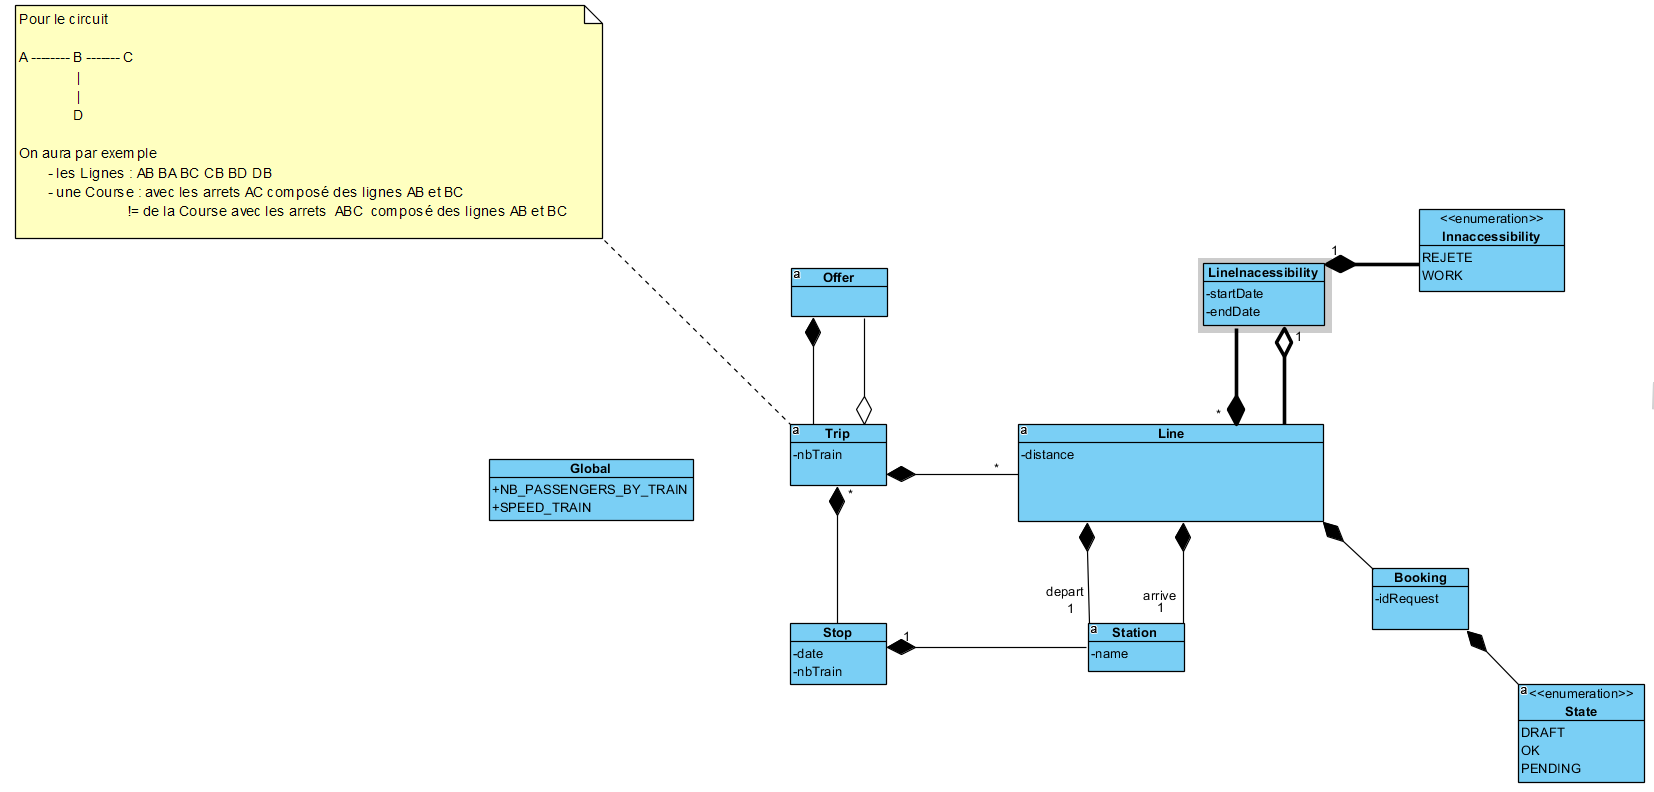
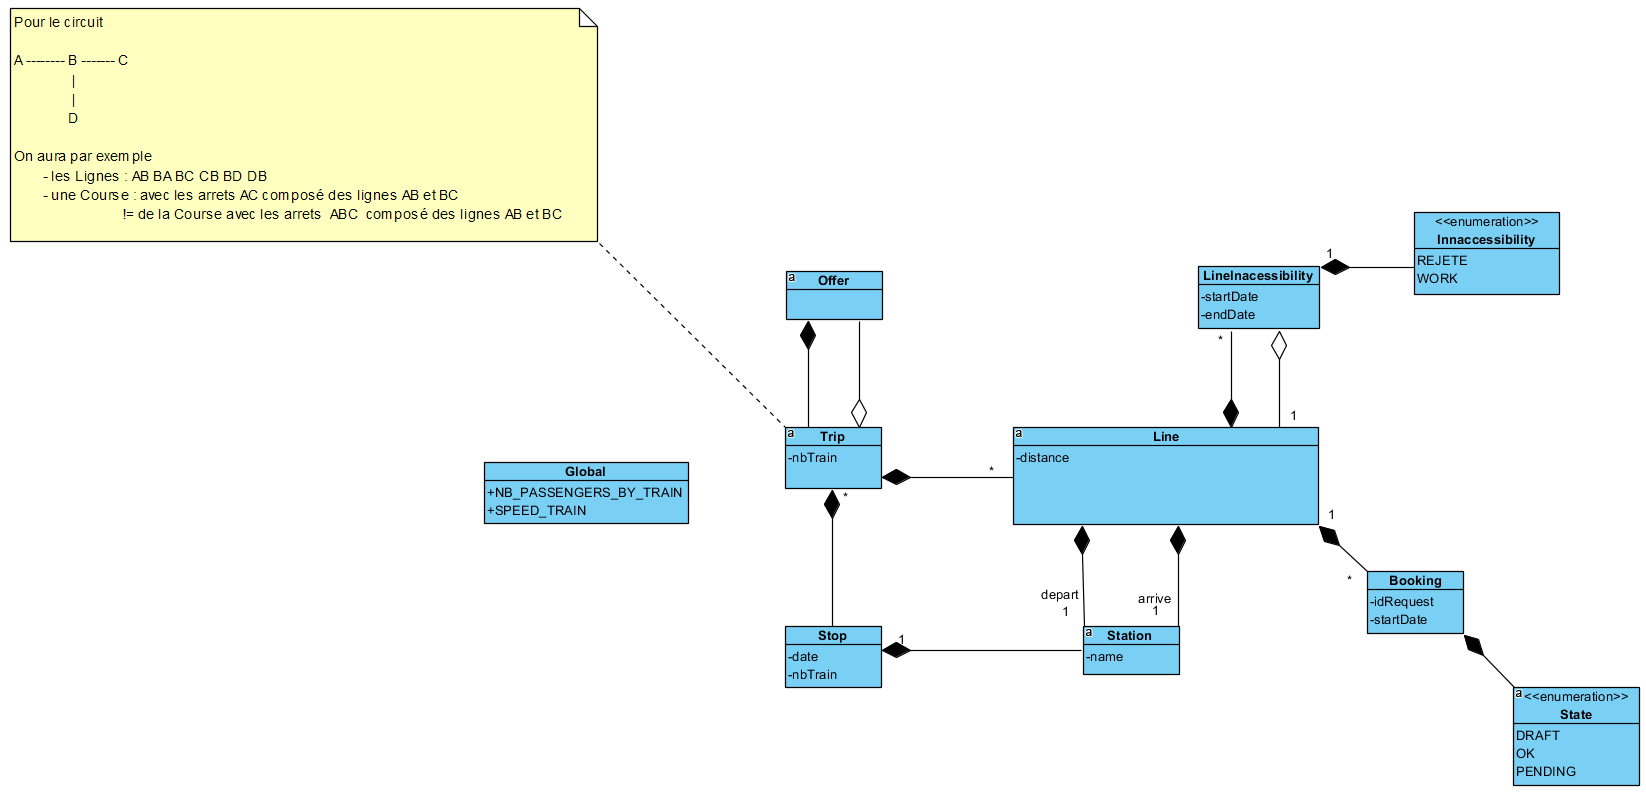
Ajout Booking

diff --git a/src/main/java/com/fil/IMTransport/object/Line.java b/src/main/java/com/fil/IMTransport/object/Line.java
@@ -22,18 +22,32 @@ public class Line {
 	/**
 	 * @param inaccessibilities Map<Timestamp, Inaccessibility> - Date et raison des
 	 *                          inaccessibilités de la ligne
-	 * @param bookings          Map<Timestamp, State> - Date et état des
-	 *                          réservations de la ligne
-	 * @param start             Station - Station de départ de la ligne
-	 * @param end               Station - Station de fin de ligne
-	 * @param distance          int - Longueur (en km) de la ligne
 	 */
 	@OneToMany
 	private ArrayList<LineInaccessibility> inaccessibilities;
+	
+	/**
+	 * @param bookings          Map<Timestamp, State> - Date et état des
+	 *                          réservations de la ligne
+	 */
+	@OneToMany
+	private ArrayList<Booking> bookings;
+	
+	/**
+	 * @param start             Station - Station de départ de la ligne
+	 */
 	@ManyToMany
 	private Station start;
+	
+	/**
+	 * @param end               Station - Station de fin de ligne
+	 */
 	@ManyToMany
 	private Station end;
+	
+	/**
+	 * @param distance          int - Longueur (en km) de la ligne
+	 */
 	private int distance;
 	
 	@Id
@@ -43,6 +57,7 @@ public class Line {
 	public Line() {
 		super();
 		this.inaccessibilities = new ArrayList<LineInaccessibility>();
+		this.bookings = new ArrayList<Booking>();
 	}
 
 	public Line(Station start, Station end, int distance) {
@@ -51,6 +66,7 @@ public class Line {
 		this.end = end;
 		this.distance = distance;
 		this.inaccessibilities = new ArrayList<LineInaccessibility>();
+		this.bookings = new ArrayList<Booking>();
 	}
 
 	public ArrayList<LineInaccessibility> getInaccessibilities() {
@@ -94,5 +110,20 @@ public class Line {
 
 	public int getId() {
 		return id;
+	}
+
+	public ArrayList<Booking> getBookings() {
+		return bookings;
+	}
+
+	public void setBookings(ArrayList<Booking> bookings) {
+		this.bookings = bookings;
+	}
+	
+	public void addBooking(Booking booking) {
+		if(! bookings.contains(booking)) {
+			booking.setLine(this);
+			bookings.add(booking);
+		}
 	}
 }

diff --git a/src/main/java/com/fil/IMTransport/object/Booking.java b/src/main/java/com/fil/IMTransport/object/Booking.java
@@ -1,0 +1,67 @@
+package com.fil.IMTransport.object;
+
+import java.security.Timestamp;
+
+import javax.persistence.Id;
+import javax.persistence.ManyToOne;
+
+public class Booking {
+	private enum State { DRAFT, OK, PENDING; }
+	
+	@Id
+	private int id;
+	
+	@ManyToOne
+	private Line line;
+	
+	private Timestamp startDate;
+	
+	private State state;
+	
+	/**
+	 * @param String idBooking - identifiant de réservation
+	 */
+	private String idBooking;
+
+	public Booking() {
+		super();
+	}
+
+	public Booking(Line line, Timestamp startDate, String idBooking, State state) {
+		super();
+		this.line = line;
+		this.startDate = startDate;
+		this.idBooking = idBooking;
+		this.state = state;
+	}
+
+	public int getId() {
+		return id;
+	}
+
+	public Line getLine() {
+		return line;
+	}
+
+	public void setLine(Line line) {
+		this.line = line;
+		line.addBooking(this);
+	}
+
+	public Timestamp getStartDate() {
+		return startDate;
+	}
+
+	public void setStartDate(Timestamp startDate) {
+		this.startDate = startDate;
+	}
+
+	public String getIdBooking() {
+		return idBooking;
+	}
+
+	public void setIdBooking(String idBooking) {
+		this.idBooking = idBooking;
+	}
+	
+}

diff --git a/src/main/java/com/fil/IMTransport/object/Trip.java b/src/main/java/com/fil/IMTransport/object/Trip.java
@@ -52,11 +52,6 @@ public class Trip {
 	 * @param int nbTrain - Nombre d'attelages de la course
 	 */
 	private int nbTrain;
-
-	/**
-	 * @param String idBooking - identifiant de réservation
-	 */
-	private String idBooking; 
 	
 	@Id
 	/** identifiant de la course */
